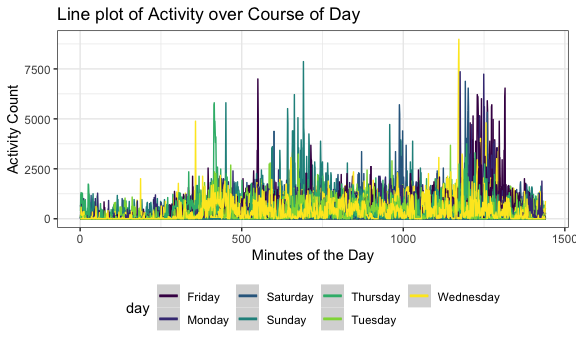
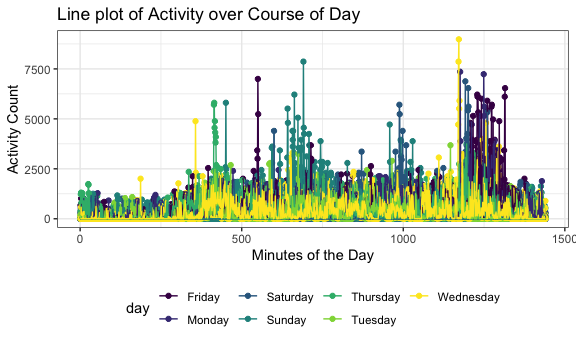
Prob 2 - part 3 plot final

diff --git a/p8105_hw3_ebb2166.md b/p8105_hw3_ebb2166.md
@@ -248,13 +248,17 @@ noticeably less activity on weekends, particularly on Saturdays.
 
 ##### Step 3: Make plot of activity over course of each day.
 
-Want x-axis as minute\_of\_day, y-axis as activity\_count
+Want to plot activity\_count (y) vs minute\_of\_day. Since these are
+both continuous variables, start with scatterplot and add geom\_line()
+to connect points, grouped by day\_id with the idea of creating 35 lines
+connecting each day’s activity variation over minutes during day. Each
+day of week is color.
 
 ``` r
 activity_df %>% 
   ggplot(aes(x = minute_of_day, y = activity_count, group = day_id, color = day)) + 
+  geom_point() +
   geom_line() + 
-  geom_smooth() + 
   labs(
     title = "Line plot of Activity over Course of Day",
     x = "Minutes of the Day",
@@ -266,12 +270,15 @@ activity_df %>%
   )
 ```
 
-    ## `geom_smooth()` using method = 'gam' and formula 'y ~ s(x, bs = "cs")'
-
-    ## Warning: Computation failed in `stat_smooth()`:
-    ## NA/NaN/Inf in foreign function call (arg 3)
-
 <img src="p8105_hw3_ebb2166_files/figure-gfm/unnamed-chunk-8-1.png" width="90%" />
+
+This plot is hard to interpret given the volume of data. However, it
+appears as though the bulk of each day of the week was spent with
+activity\_count \< 2500. Even lower activity counts are seen in the
+first 250 and last 250 minutes of the day, likely representing time
+sleeping. Some outliers exist for periods in the middle 1/3 of the day
+generally, which was less common on Wednesdays (no exercise on hump
+day?).
 
 ``` r
 activity_df %>%
@@ -281,6 +288,9 @@ activity_df %>%
   ) %>% 
   ggplot(aes(x = minute_of_day, y = activity_count, group = day_id, color = day)) +
   geom_boxplot() + 
+  scale_y_continuous(
+    breaks = seq(from = 0, to = 8000, by = 500)
+  ) + 
   labs(
     title = "Boxplot of Activity over Course of Day",
     x = "Minutes of the Day",
@@ -293,5 +303,10 @@ activity_df %>%
 ```
 
 <img src="p8105_hw3_ebb2166_files/figure-gfm/unnamed-chunk-9-1.png" width="90%" />
+
+A quick boxplot on the same concept also demonstrates that all of the
+‘boxes’ are low activity, such that 75% of activity counts for most
+days were 500 or fewer, suggesting this individual spends most of the
+day at rest or sedentary with brief periods of increased activity.
 
 ## Problem 3
